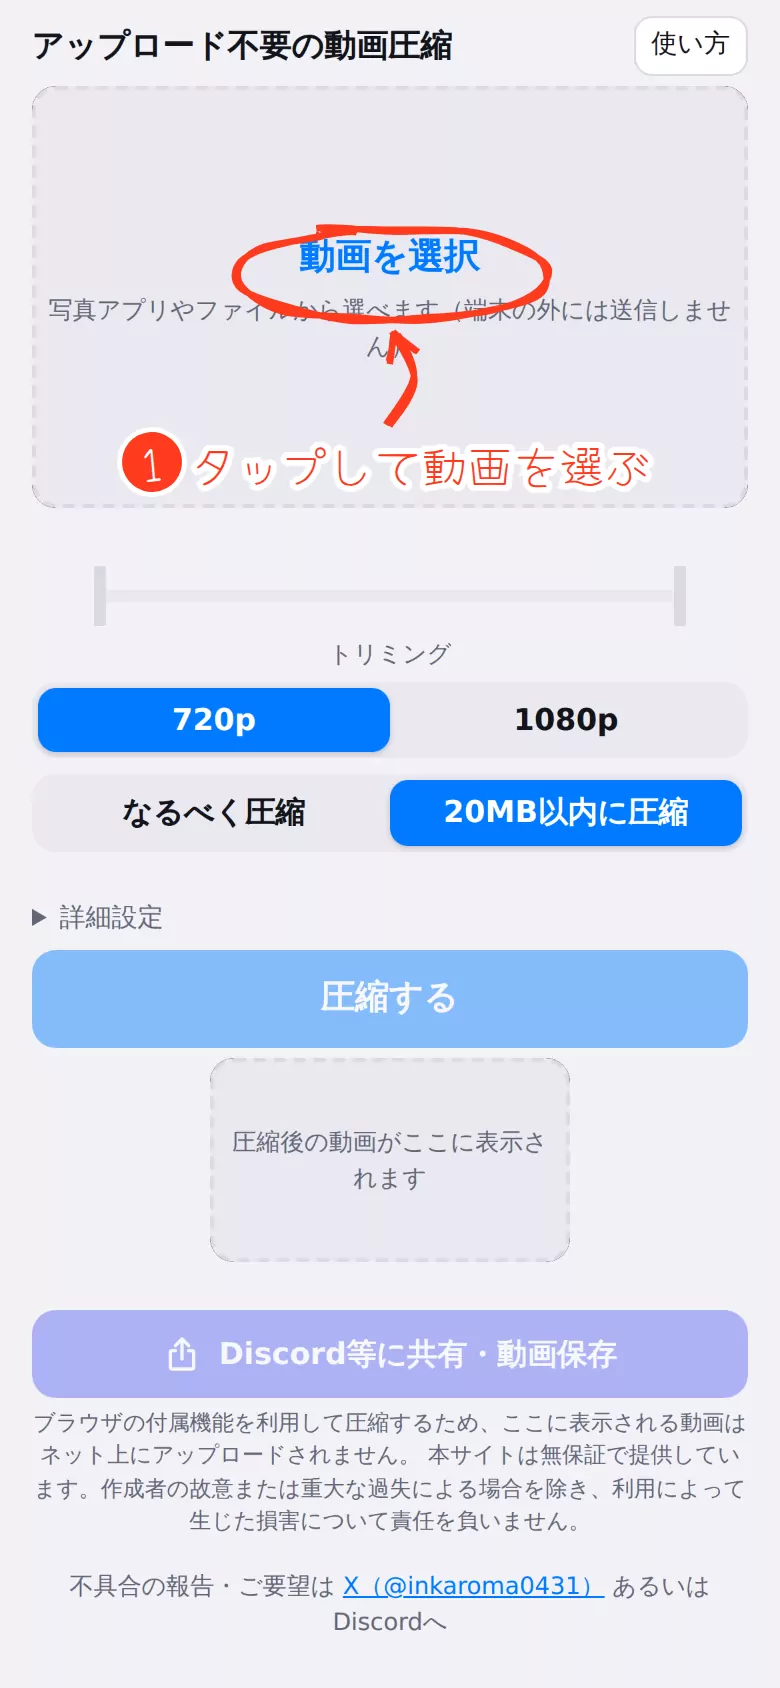
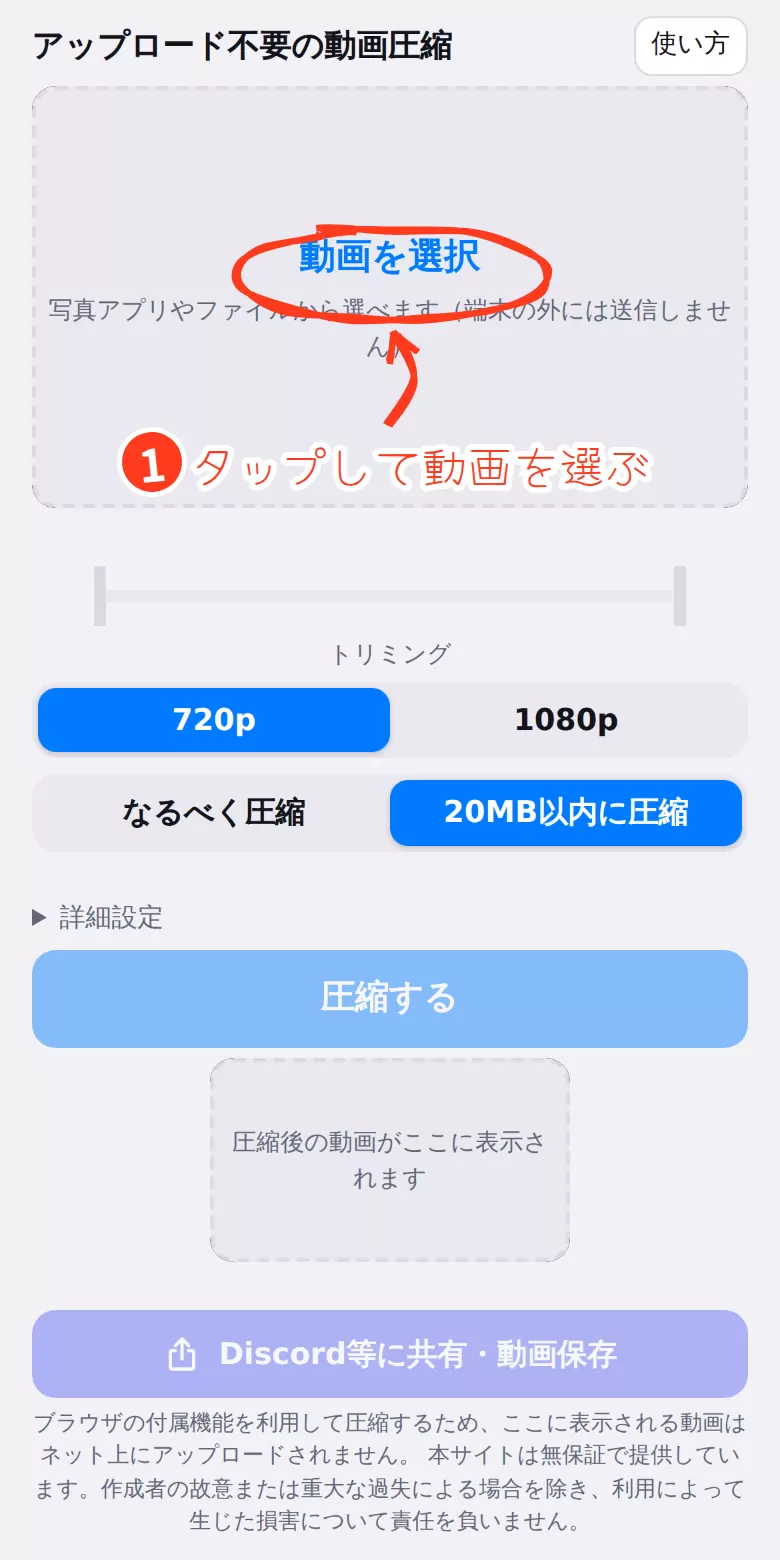
feat: 説明書の画像を見やすくし、画面の下端まで使う
- 画像の丸数字を太いゴシック体にして読みやすくする（ラベルと矢印は手書き風のまま）
- 画像の下の「不具合の報告・ご要望は〜」の行を切り落として縦を短くし、説明書の画面に収まるようにする
- 説明書の枠を、上に少し余白を残して画面の下端まで広げる
- 画像の下にあった手順・便利なこと・準備中の節・うまくいかないときの文章を削除する（画像で説明する）

Claude-Session: https://claude.ai/code/session_01Kjx2uZRnB9w1XNEyRL87P8

diff --git a/public/index.html b/public/index.html
@@ -137,13 +137,17 @@
   }
 
   /* 説明書（画面に重ねて開く） */
+  /* 説明書は上に少し余白を残し、下は画面の下端までいっぱいに使う */
   #helpDlg {
+    --dlg-top: max(16px, calc(env(safe-area-inset-top) + 8px));
     width: min(520px, calc(100vw - 32px));
-    max-height: 82vh;
-    max-height: 82svh;
+    height: calc(100% - var(--dlg-top));
+    max-height: calc(100% - var(--dlg-top));
+    margin: var(--dlg-top) auto 0;
     padding: 0;
     border: 1px solid var(--line);
-    border-radius: 14px;
+    border-bottom: none;
+    border-radius: 14px 14px 0 0;
     background: var(--surface);
     color: var(--text);
   }
@@ -166,24 +170,13 @@
     margin: 0;
   }
   #helpDlg .help-body {
-    padding: 4px 14px 14px;
+    padding: 4px 14px calc(14px + env(safe-area-inset-bottom));
     font-size: 14px;
     line-height: 1.6;
   }
   #helpDlg h3 {
     font-size: 14px;
     margin: 14px 0 4px;
-  }
-  #helpDlg ol, #helpDlg ul {
-    margin: 0;
-    padding-left: 1.3em;
-  }
-  #helpDlg ol.help-steps {
-    list-style: none;
-    padding-left: 0;
-  }
-  #helpDlg li + li {
-    margin-top: 4px;
   }
   #helpDlg p {
     margin: 4px 0 0;
@@ -245,7 +238,7 @@
     flex: 0 0 auto;
     width: min(70vw, 32svh, 320px);
     height: auto;
-    aspect-ratio: 390 / 844;
+    aspect-ratio: 390 / 780;
     scroll-snap-align: start;
     border: 1px solid var(--line);
     border-radius: 12px;
@@ -880,41 +873,10 @@
       <button type="button" aria-label="3枚目"></button>
     </div>
     <div class="help-slides" id="helpSlides" tabindex="0" aria-label="手順の画像（横にスワイプで次の画像）">
-      <img data-src="./help/help-1.webp" width="390" height="844" alt="①「動画を選択」をタップして動画を選ぶ">
-      <img data-src="./help/help-2.webp" width="390" height="844" alt="②青い線で使う範囲を決める、③画質と圧縮方法を選ぶ、④「圧縮する」を押す">
-      <img data-src="./help/help-3.webp" width="390" height="844" alt="小さくなった動画ができたら、⑤「Discord等に共有・動画保存」でDiscordに送るか写真に保存する">
+      <img data-src="./help/help-1.webp" width="390" height="780" alt="①「動画を選択」をタップして動画を選ぶ">
+      <img data-src="./help/help-2.webp" width="390" height="780" alt="②青い線で使う範囲を決める、③画質と圧縮方法を選ぶ、④「圧縮する」を押す">
+      <img data-src="./help/help-3.webp" width="390" height="780" alt="小さくなった動画ができたら、⑤「Discord等に共有・動画保存」でDiscordに送るか写真に保存する">
     </div>
-    <ol class="help-steps">
-      <li><b>① 動画を選ぶ</b>：上の枠をタップして、写真ライブラリなどから動画を選びます。</li>
-      <li><b>② トリミング</b>（必要なら）：バーの両端にある青い縦線を動かして、使う範囲を決めます。バーを触るか細い線を動かすと、その位置の映像を確認できます。</li>
-      <li><b>③ 画質と圧縮方法を選ぶ</b>：解像度（720p / 1080p）と圧縮方法を選びます。元の動画より大きくはしません。
-        <ul>
-          <li>「20MB以内に圧縮」：20MBに収まる範囲で、なるべくきれいに仕上げます。</li>
-          <li>「なるべく圧縮」：画質を落としてでも、できるだけ小さくします。</li>
-        </ul>
-      </li>
-      <li><b>④ 圧縮する</b>を押します。設定を変えてやり直すときは「やり直す」を押します。</li>
-      <li><b>⑤ 共有・保存</b>：「Discord等に共有」でDiscordに送るか、写真に保存します。</li>
-    </ol>
-
-    <h3>知っておくと便利なこと</h3>
-    <ul>
-      <li>元の画質のまま20MBに収まるときは、圧縮せずにそのまま使えます（トリミングしたときは切り出すだけで、数秒で終わります）。</li>
-      <li>長すぎて20MBに収まらないときは、「720pなら1分56秒まで」のように収まる長さの目安を表示します。トリミングで短くするか、720pにしてください。</li>
-      <li>撮影場所などの位置情報は、書き出す動画には含めません。</li>
-      <li>「詳細設定」で、目標サイズ（Nitroなら50MBなど）、音声の有無などを変えられます。設定は次に開いたときも覚えています。</li>
-      <li>「詳細設定」の「現在の設定を記憶したURLを生成してコピー」で、今の設定で開くURLを作れます。ブックマークやショートカットに便利です。</li>
-      <li>ブラウザの共有メニューから「ホーム画面に追加」すると、アプリのように使えます（オフラインでも起動できます）。</li>
-    </ul>
-
-    <h3>iPhoneのショートカットで使う（準備中）</h3>
-    <p>写真アプリの共有メニューから、動画を保存してこのサイトを開くショートカットを用意する予定です。入手方法と使い方は、画像つきでここに追加します。</p>
-
-    <h3>うまくいかないとき</h3>
-    <ul>
-      <li>圧縮中は、画面を表示したままにしてください。ほかのアプリに切り替えると止まることがあります。</li>
-      <li>エラーが出たときは、いちばん下の「診断情報」をコピーして、X（@inkaroma0431）あるいはDiscordに送ってください。</li>
-    </ul>
   </div>
 </dialog>
 

diff --git a/public/app.js b/public/app.js
@@ -40,7 +40,7 @@
   var KEYFRAME_INTERVAL = 2;             // 秒
   var MIN_TRIM_LENGTH = 0.5;             // 秒
   var AUDIO_DECODE_MAX_BYTES = 400 * MB;   // 互換モードで音声を扱うファイルサイズの上限
-  var APP_VERSION = '2026-09-25e';        // 診断情報に出す（どの版で起きたかを見分ける）
+  var APP_VERSION = '2026-09-25f';        // 診断情報に出す（どの版で起きたかを見分ける）
   var CANCELLED = 'cancelled';
   var SNAPSHOT_MAX_BYTES = 600 * MB;     // Android で動画をブラウザ内に写し取る上限（これより大きい動画は写さない）
   var STALLED = 'stalled';

diff --git a/public/sw.js b/public/sw.js
@@ -8,7 +8,7 @@
  */
 'use strict';
 
-var CACHE = 'video-compressor-under20mb-v47';
+var CACHE = 'video-compressor-under20mb-v48';
 var NETWORK_TIMEOUT_MS = 3000;   // ネット優先のとき、ネットの応答をこれだけ待ってからキャッシュを使う
 
 // Cloudflare Pages のプレビュー（<ブランチ名>.<プロジェクト名>.pages.dev）と手元の確認環境だけネット優先にする

diff --git a/README.md b/README.md
@@ -33,7 +33,7 @@
 元動画と圧縮後の動画の枠は、圧縮前は元動画を幅いっぱいに大きく（圧縮後の動画は中央の小窓）、圧縮が終わると入れ替わって圧縮後の動画を幅いっぱいに表示します
 （元のままで圧縮不要のときと、圧縮し直している間は元動画が大きいままです）。
 
-タイトルの右の「**使い方**」を押すと、手順や注意点をまとめた説明書が開きます。
+タイトルの右の「**使い方**」を押すと、説明書が開きます（画面の下端まで広がります）。
 手順は、実際の画面のスクリーンショットに①〜⑤の番号と手書き風の矢印を書き込んだ画像3枚で説明し、左右にスワイプして見られます。
 画像は説明書を初めて開いたときに読み込み（アプリの起動時には読みません）、一度開けばオフラインでも見られます。
 
